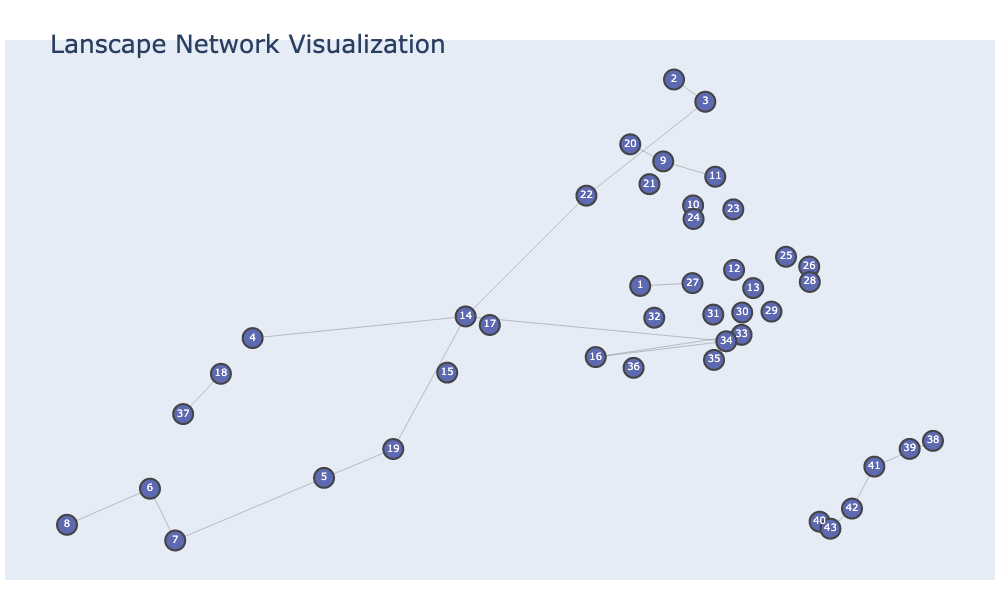
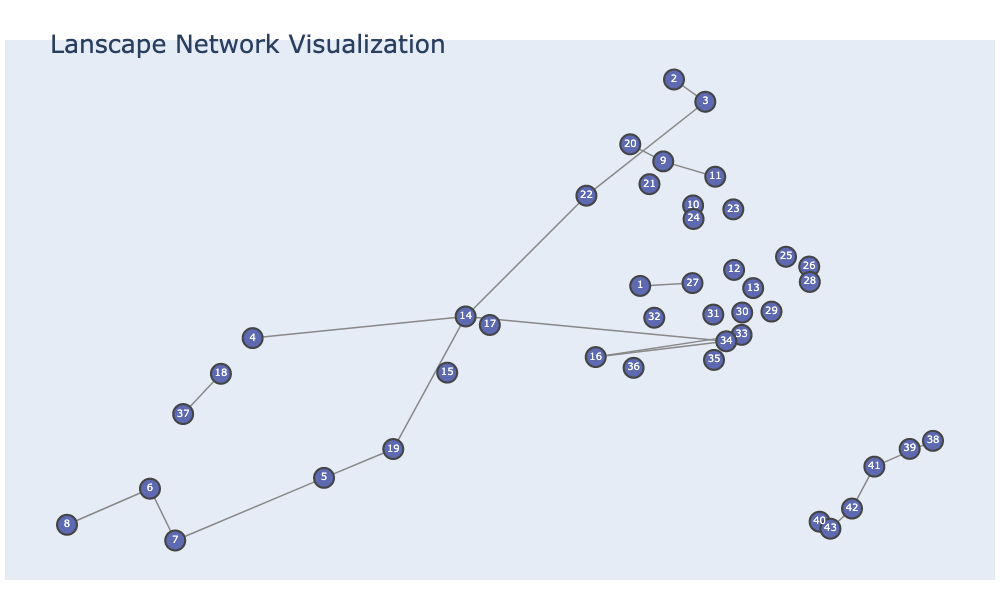
Add new graph

diff --git a/src/network_analysis.py b/src/network_analysis.py
@@ -34,3 +34,131 @@ def calculate_ITSI(G, i, j, one_div_one_plus_dk, E_list):
     G1 = G.copy()
     G1.add_edges_from([(i, j)])
     return calculate_IIPC(G1, one_div_one_plus_dk, E_list) / calculate_IIPC(G, one_div_one_plus_dk, E_list) - 1
+
+
+def convert_matrix_to_rank(df_rst, head=0, end=20):
+    df_rk = []
+    for i in df_rst.index:
+        for j in df_rst.columns:
+            if j > i:
+                df_rk.append([i, j, df_rst.loc[i, j]])
+                
+    df_rk = pd.DataFrame(df_rk, columns=["start", "end", "value"])       
+    df_rk.sort_values("value", ascending=False, inplace=True)
+    df_rk = df_rk.reset_index(drop=True).reset_index(drop=False).rename({"index":"rank"}, axis=1)
+    return df_rk.head(end).tail(end-head)
+
+def gen_new_graph(df_rk):
+    
+    edges_list_new = []
+    for idx, i in df_rk.iterrows():
+        edges_list_new.append([int(i["start"]), int(i["end"])])
+
+    G_new = nx.Graph()
+    G_new.add_edges_from(edges_list_new)
+    return G_new
+
+
+def plot_network_graph(G, nodes):
+    
+    import plotly.graph_objects as go
+
+    edge_x = []
+    edge_y = []
+    for edge in G.edges():
+
+        x0, y0 = nodes.loc[nodes["斑块编号"] == edge[0], ["X坐标", "Y坐标"]].values[0]
+        x1, y1 = nodes.loc[nodes["斑块编号"] == edge[1], ["X坐标", "Y坐标"]].values[0]
+
+        edge_x.append(x0)
+        edge_x.append(x1)
+        edge_x.append(None)
+        edge_y.append(y0)
+        edge_y.append(y1)
+        edge_y.append(None)
+        
+    node_x = []
+    node_y = []
+    node_t = []
+    
+    for node in G.nodes():
+        x, y = nodes.loc[nodes["斑块编号"] == node, ["X坐标", "Y坐标"]].values[0]
+        node_x.append(x)
+        node_y.append(y)
+        node_t.append(node)
+        
+    edge_trace = go.Scatter(
+        x=edge_x, y=edge_y,
+        line=dict(width=1.5, color='#888'),
+        hoverinfo='none',
+        mode='lines')
+
+
+    node_trace = go.Scatter(
+        x=node_x, y=node_y,
+        text=node_t,
+        mode='markers+text',
+        hoverinfo='text',
+        textposition="middle center",
+        textfont=dict(
+            size=10,
+            color="White"
+        ),
+        marker=dict(
+            showscale=False,
+            colorscale='Viridis',
+            reversescale=True,
+            color="#5D69B1",
+            size=20,
+            # colorbar=dict(
+            #     thickness=15,
+            #     title='Node Connections',
+            #     xanchor='left',
+            #     titleside='right'
+            # ),
+            line_width=2))
+
+    fig = go.Figure(data=[edge_trace, node_trace],
+                    layout=go.Layout(
+                        title='<br>Lanscape Network Visualization',
+                        titlefont_size=25,
+                        showlegend=False,
+                        width=1000,
+                        height=600,
+                        hovermode='closest',
+                        margin=dict(b=20,l=5,r=5,t=40),
+                        xaxis=dict(showgrid=False, zeroline=False, showticklabels=False),
+                        yaxis=dict(showgrid=False, zeroline=False, showticklabels=False))
+                    )    
+    return fig
+
+
+def add_graph(fig, G_new, nodes, color='firebrick'):
+    
+    import plotly.graph_objects as go
+
+    edge_x = []
+    edge_y = []
+    for edge in G_new.edges():
+
+        x0, y0 = nodes.loc[nodes["斑块编号"] == edge[0], ["X坐标", "Y坐标"]].values[0]
+        x1, y1 = nodes.loc[nodes["斑块编号"] == edge[1], ["X坐标", "Y坐标"]].values[0]
+
+        edge_x.append(x0)
+        edge_x.append(x1)
+        edge_x.append(None)
+        edge_y.append(y0)
+        edge_y.append(y1)
+        edge_y.append(None)
+        
+    edge_trace = go.Scatter(
+        x=edge_x, y=edge_y,
+        line=dict(width=1.8, color=color, dash='dot'),
+        hoverinfo='none',
+        mode='lines')
+
+    fig.add_trace(
+        edge_trace
+    )
+    
+    return fig
